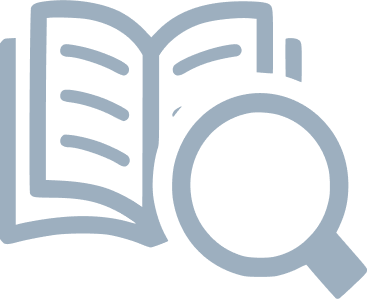
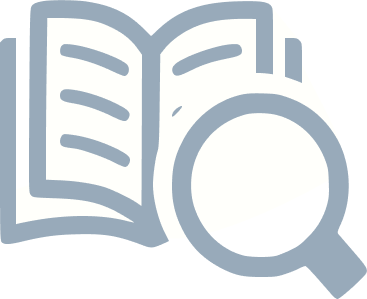
Another visual fix. Issue #789 which was mentioned in the pull request #771. Fixed Reproducible cards slider image overlap and layout fix

diff --git a/themes/tilburg/layouts/index.html b/themes/tilburg/layouts/index.html
@@ -3,24 +3,24 @@
 <!-- menu -->
 
 <div class="bg-secondary text-white p-5 d-none">
-	{{- range .Sections -}}
-		{{- range .Pages -}}
-			{{ if eq .Params.isParent "true" }}
-		 	<h1>{{ .Title }}</h1>
-			{{- range .Pages -}}
-				<h2>{{ .Title }}</h2>
-				{{- range .Pages -}}
-					<h3>{{ .Title }}</h3>
-					<ul>
-						{{- range .Pages -}}
-							<li>{{ .Title }}</li>
-						{{- end -}}
-					</ul>
-				{{ end }}
-			{{ end }}
-			{{ end }}
-		{{- end -}}
-	{{- end -}}
+  {{- range .Sections -}}
+  {{- range .Pages -}}
+  {{ if eq .Params.isParent "true" }}
+  <h1>{{ .Title }}</h1>
+  {{- range .Pages -}}
+  <h2>{{ .Title }}</h2>
+  {{- range .Pages -}}
+  <h3>{{ .Title }}</h3>
+  <ul>
+    {{- range .Pages -}}
+    <li>{{ .Title }}</li>
+    {{- end -}}
+  </ul>
+  {{ end }}
+  {{ end }}
+  {{ end }}
+  {{- end -}}
+  {{- end -}}
 </div>
 
 
@@ -34,14 +34,14 @@
     <div class="col-lg-9 col-24 mt-3 px-0 order-2 order-lg-1 text-center text-lg-left">
       <h1 class="mx-5 mx-lg-0">
         <!--<span class="text-primary heading">Tilburg Science Hub</span>-->
-				<span class="">Tilburg</span><span class="heading"> Science Hub</span>
+        <span class="">Tilburg</span><span class="heading"> Science Hub</span>
         <!--<br />
         <span>Conduct your research differently.</span>-->
       </h1>
 
       <p class="text-secondary mx-4 mx-lg-0 mt-4 mb-4 mr-lg-5 pr-lg-5">
-        We bring the <a class = "header" href = "/tour">value of open science</a> to Tilburg,
-				and valuable resources of Tilburg to the world.
+        We bring the <a class="header" href="/tour">value of open science</a> to Tilburg,
+        and valuable resources of Tilburg to the world.
       </p>
 
       <!-- buttons take the tour and start tutorial-->
@@ -50,19 +50,19 @@
           <b>New to Tilburg Science Hub?</b>
         </p>
         <a href="/tour">
-        <button class="btn btn-primary" style="margin: 5px;">Take the tour</button>
+          <button class="btn btn-primary" style="margin: 5px;">Take the tour</button>
         </a>
       </div>
     </div>
 
-			<!--<div class="form-inline text-center float-center d-none d-block d-xl-none">
+    <!--<div class="form-inline text-center float-center d-none d-block d-xl-none">
 				<br>space<br></div>
 -->
 
 
 
-<!-- for bigger screens: search -->
-<!--
+    <!-- for bigger screens: search -->
+    <!--
 <div class="d-none d-lg-block">
 	<form class="form-inline text-center float-center" method="GET" action="/search">
 		<div style="width: 500px" class="form-control headerSearch2 border-0">
@@ -73,16 +73,16 @@
 	</form>
   -->
 
-	<!-- search results -->
-  <!--
+    <!-- search results -->
+    <!--
 	<div class="position-absolute bg-white rounded shadow headerSearchResultsHolder2">
 	</div>
 
 </div>
   -->
 
-<!-- for smaller screens: search -->
- <!--
+    <!-- for smaller screens: search -->
+    <!--
 <div class="d-lg-none">
 
 	<form class="text-center float-center" method="GET" action="/search">
@@ -94,8 +94,8 @@
 	</form>
     -->
 
-	<!-- search results -->
-   <!--
+    <!-- search results -->
+    <!--
 	<div class="position-absolute bg-white rounded shadow headerSearchResultsHolder2">
 	</div>
    -->
@@ -107,14 +107,14 @@
 
 
 
-			<!--<span>Take a tour</span>-->
+    <!--<span>Take a tour</span>-->
 
-			<!--<p class="text-secondary text-right mx-4 mx-lg-0 mt-4 mb-4 mr-lg-5 pr-lg-5">
+    <!--<p class="text-secondary text-right mx-4 mx-lg-0 mt-4 mb-4 mr-lg-5 pr-lg-5">
         Take a tour.
 
       </p>
 -->
-<!--
+    <!--
 			<a href="/tour">
         <button class="btn  btn-sm mt-2">Take a tour</button>
       </a>
@@ -124,11 +124,12 @@
 
     </div> --->
 
-<!-- end of search on homepage feature -->
+    <!-- end of search on homepage feature -->
 
-<div class="col-lg-10 mt-3 col-16 order-1 order-lg-2 d-none d-md-flex d-lg-flex d-xl-flex text-center align-content-center">
-  <img src="/img/hero.png" alt="work with open science" class="hero-image mx-auto mx-lg-none" >
-</div>
+    <div
+      class="col-lg-10 mt-3 col-16 order-1 order-lg-2 d-none d-md-flex d-lg-flex d-xl-flex text-center align-content-center">
+      <img src="/img/hero.png" alt="work with open science" class="hero-image mx-auto mx-lg-none">
+    </div>
 
   </div>
 </div>
@@ -232,7 +233,12 @@
         </div>
         <div class="col-lg-10 col-xl-14 col-22 mb-3">
           <div class="h-100 p-4 rounded bg-white d-flex flex-column card-category-carousel"
-            style="background-image: url('/img/card-icon.png');background-repeat: no-repeat;background-size: 30%;background-position-x: 110%;background-position-y: 190%;">
+            style="position: relative;overflow:hidden">
+            <div class="d-none d-md-block d-lg-block d-xl-block" style="position: absolute;bottom: -50px;right: -25px;width: 200px;height: auto;z-index:2">
+              <img src="/img/card-icon.png" alt="Background Image">
+            </div>
+          
+            <div class="background-content">
             <div class="row mb-4">
               <div class="col-xl-22 col-lg-20 col-md-22 col-sm-22">
                 <h2 class="heading mt-3" style="font-size: 20px ; line-height: 1 !important;">
@@ -253,10 +259,11 @@
             <div class="row" style="margin-top: auto; margin-bottom: auto;">
               <div class="col-xl-24 col-lg-24 col-md-24 col-sm-24">
                 <div id="carouselExample" class="carousel slide h-100" data-bs-ride="carousel">
-                  <div class="carousel-inner h-100">
+                  <div class="carousel-inner h-100" style="z-index:1;">
                   </div>
                 </div>
               </div>
+            </div>
             </div>
           </div>
         </div>
@@ -268,26 +275,26 @@
             <ul class="my-2 list-unstyled">
               {{ $s := slice }}
               {{ $displayedTitles := dict }}
-            
+
               {{ range where .Site.Pages.ByPublishDate.Reverse "Section" "in" "[building-blocks, tutorials]" }}
-                {{ $title := .Title }}
-                {{ if not (index $displayedTitles $title) }}
-                  {{ $s = $s | append . }}
-                  {{ $displayedTitles = merge $displayedTitles (dict $title true) }}
-                {{ end }}
+              {{ $title := .Title }}
+              {{ if not (index $displayedTitles $title) }}
+              {{ $s = $s | append . }}
+              {{ $displayedTitles = merge $displayedTitles (dict $title true) }}
               {{ end }}
-            
+              {{ end }}
+
               {{ with $s.ByPublishDate.Reverse | first 3 }}
-                {{ range . }}
-                  <li class="pb-3">
-                    <span class="icon link text-primary d-inline-block mr-2"></span>
-                    <a href="{{ .Permalink }}">{{ .Title }}<sup style="color: #ffb222;"> new </sup></a>
-                  </li>
-                {{ end }}
+              {{ range . }}
+              <li class="pb-3">
+                <span class="icon link text-primary d-inline-block mr-2"></span>
+                <a href="{{ .Permalink }}">{{ .Title }}<sup style="color: #ffb222;"> new </sup></a>
+              </li>
+              {{ end }}
               {{ end }}
             </ul>
-            
-            
+
+
           </div>
         </div>
         <div class="col-lg-10 col-xl-4 col-22 mb-3">
@@ -362,7 +369,8 @@
         </h2>
 
         <p class="text-secondary mt-4 d-block">
-          Learn to write clean code, use conventions and version control to catch mistakes easily, make your work future-proof, and allow others to quickly review it.
+          Learn to write clean code, use conventions and version control to catch mistakes easily, make your work
+          future-proof, and allow others to quickly review it.
         </p>
       </div>
     </div>
@@ -377,7 +385,8 @@
         </h2>
 
         <p class="text-secondary mt-4">
-          Learn how to make teamwork exciting, not only efficient! Use SCRUM and collaboration tools to assign roles, manage tasks, and define milestones so that nobody is left behind.
+          Learn how to make teamwork exciting, not only efficient! Use SCRUM and collaboration tools to assign roles,
+          manage tasks, and define milestones so that nobody is left behind.
         </p>
       </div>
     </div>
@@ -402,7 +411,8 @@
         </h2>
 
         <p class="text-secondary mt-4">
-          Learn to automate your research workflow. Don't waste time manually running each step. Let your computer take care of it for you, while you can work on
+          Learn to automate your research workflow. Don't waste time manually running each step. Let your computer take
+          care of it for you, while you can work on
           something else.
         </p>
       </div>
@@ -418,21 +428,23 @@
         </h2>
 
         <p class="text-secondary mt-4">
-          When the going gets tough, the tough get cloud computing. Learn to quickly resume your work running instances on remote servers.
+          When the going gets tough, the tough get cloud computing. Learn to quickly resume your work running instances
+          on remote servers.
         </p>
       </div>
     </div>
     <div class="col-lg-2 col-0 order-lg-2"></div>
     <div class="col-lg-8 col-24 px-0 order-1 order-lg-3 text-center">
       <!-- <div class="bg-white rounded p-4 boxShadow pseudobox border"></div> -->
-      <img src="/img/audience-4.svg" alt= "Scale it up" style="max-width: 200px;" loading="lazy">
+      <img src="/img/audience-4.svg" alt="Scale it up" style="max-width: 200px;" loading="lazy">
     </div>
   </div>
   <!-- 5 -->
   <div class="row py-5">
     <div class="col-lg-2 col-0"></div>
     <div class="col-lg-8 col-24 text-center">
-      <img src="/img/community-members.png" style="max-width: 100%;height: auto;" alt="Open science community" loading="lazy" class="community_members"> 
+      <img src="/img/community-members.png" style="max-width: 100%;height: auto;" alt="Open science community"
+        loading="lazy" class="community_members">
     </div>
     <div class="col-lg-2 col-0"></div>
     <div class="col-lg-8 col-24 d-flex align-items-center">
@@ -442,7 +454,9 @@
         </h2>
 
         <p class="text-secondary mt-4">
-          Visit our <a href="https://github.com/tilburgsciencehub">GitHub</a> or <a href="https://www.linkedin.com/company/71039687/">LinkedIn</a> page to join the Tilburg Science Hub community,
+          Visit our <a href="https://github.com/tilburgsciencehub">GitHub</a> or <a
+            href="https://www.linkedin.com/company/71039687/">LinkedIn</a> page to join the Tilburg Science Hub
+          community,
           or visit our <a href="/contributors">contributors' Hall of Fame!</a>
           Want to change something or add new content? Learn <a href="/contribute">how to contribute</a> now!
         </p>
@@ -460,13 +474,13 @@
       <h4 class="text-primary heading">Who we are</h4>
       <br />
       <p class="mt-2 mb-4 h3">
-				Learn to work more efficiently on <a href="/tour">empirical research projects</a>,
-				using tools like R, Python, and Stata –
-				flavored with open science made in Tilburg.
-				Initially launched by researchers from
-				<a href="https://tilburguniversity.edu">Tilburg University</a>,
-				Tilburg Science Hub is developed on <a href="https://github.com/tilburgsciencehub/website">GitHub</a> and
-				welcomes <a href="/contribute">open source contributions</a>.
+        Learn to work more efficiently on <a href="/tour">empirical research projects</a>,
+        using tools like R, Python, and Stata –
+        flavored with open science made in Tilburg.
+        Initially launched by researchers from
+        <a href="https://tilburguniversity.edu">Tilburg University</a>,
+        Tilburg Science Hub is developed on <a href="https://github.com/tilburgsciencehub/website">GitHub</a> and
+        welcomes <a href="/contribute">open source contributions</a>.
 
       </p>
       <br />
@@ -486,7 +500,7 @@
   body::before {
     content: "";
     position: absolute;
-    top: 1500px;
+    top: 1400px;
     width: 100%;
     height: 2400px;
     z-index: -1;
@@ -504,16 +518,16 @@
 
   @media only screen and (max-width: 990px) {
     body::before {
-      top: 2850px;
+      top: 2450px;
     }
   }
 
   @media only screen and (max-width:578px) {
     body::before {
-      top: 3000px;
+      top: 2825px;
     }
 
-    #most-popular-block-single{
+    #most-popular-block-single {
       background-position-x: 130% !important;
     }
 
@@ -521,24 +535,23 @@
       display: none;
     }
 
-    .icon-col{
-    flex: 0 0 16.66666667%;
-    max-width: 16.66666667%;
+    .icon-col {
+      flex: 0 0 16.66666667%;
+      max-width: 16.66666667%;
     }
 
-    .text-col{
-    flex: 0 0 75%;
-    max-width: 75%;
+    .text-col {
+      flex: 0 0 75%;
+      max-width: 75%;
     }
 
-    .card-category-carousel{
-      background-image:none !important;
+    .card-category-carousel {
+      background-image: none !important;
     }
   }
 
   @media only screen and (max-width:1339px) {
-    .card-category-carousel{
-    }
+    .card-category-carousel {}
   }
 </style>
 
